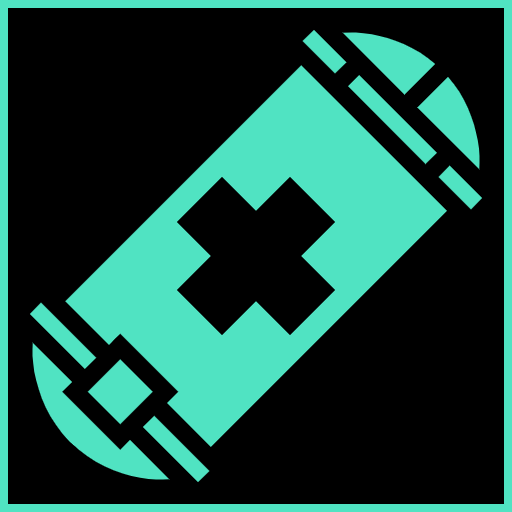
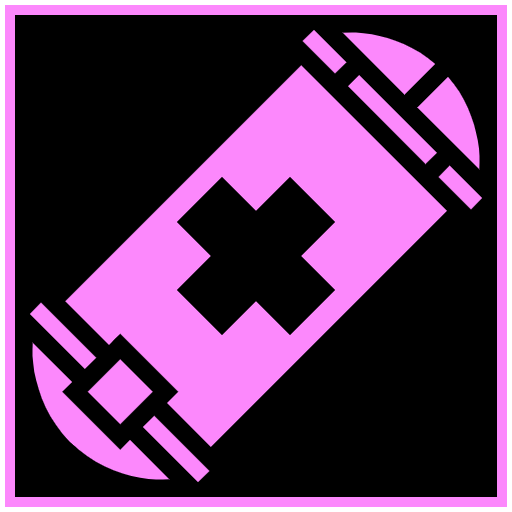
action_image + creation du fichi

diff --git a/src/assets/ActionAsset.ts b/src/assets/ActionAsset.ts
@@ -4,6 +4,11 @@ export enum ActionAssetId {
     WALK = "walk",
     SHOOT = "shoot",
     HEAL = "heal",
+    ARTILLERY_SUPPORT = "artillery_support",
+    AMPUTATE = "amputate",
+    BAYONET = "bayonet",
+    INTIMIDATION = "intimidation",
+    SNEAKY = "sneaky",
 }
 
 class ActionAssetManager extends ImageAssetManager<ActionAssetId, string> {
@@ -19,7 +24,12 @@ class ActionAssetManager extends ImageAssetManager<ActionAssetId, string> {
         super("action", {
             [ActionAssetId.WALK]: "action_image_moove",
             [ActionAssetId.SHOOT]: "action_image_shoot",
-            [ActionAssetId.HEAL]: "action_image_arrowup",
+            [ActionAssetId.HEAL]: "action_image_heal",
+            [ActionAssetId.ARTILLERY_SUPPORT]: "action_image_artillery_support",
+            [ActionAssetId.AMPUTATE]: "action_image_amputate",
+            [ActionAssetId.BAYONET]: "action_image_bayonet",
+            [ActionAssetId.INTIMIDATION]: "action_image_intimidation",
+            [ActionAssetId.SNEAKY]: "action_image_sneaky",
         });
     }
 }

diff --git a/src/scenes/Fight/fight.scene.ts b/src/scenes/Fight/fight.scene.ts
@@ -25,6 +25,7 @@ import { CharactersDisplayer } from "./components/CharactersDisplayer";
 import { TurnDisplayer } from "./components/TurnsDisplayer";
 import { StatsDisplayer } from "./components/StatsDisplayer";
 import { SceneAssetId } from "../../assets/ScenesAsset";
+import { ParticleAsset } from "../../assets/ParticleAsset";
 
 export type SceneRenderConfig = {
     tileSize: number;
@@ -223,6 +224,8 @@ export class FightScene extends BaseScene {
             this.fightMap,
             `assets/${this.fightMap}.json`,
         );
+
+        ParticleAsset.loadAll(this.load);
 
         MiscAsset.load(this.load, MiscAssetId.GROUND_TILE);
 
